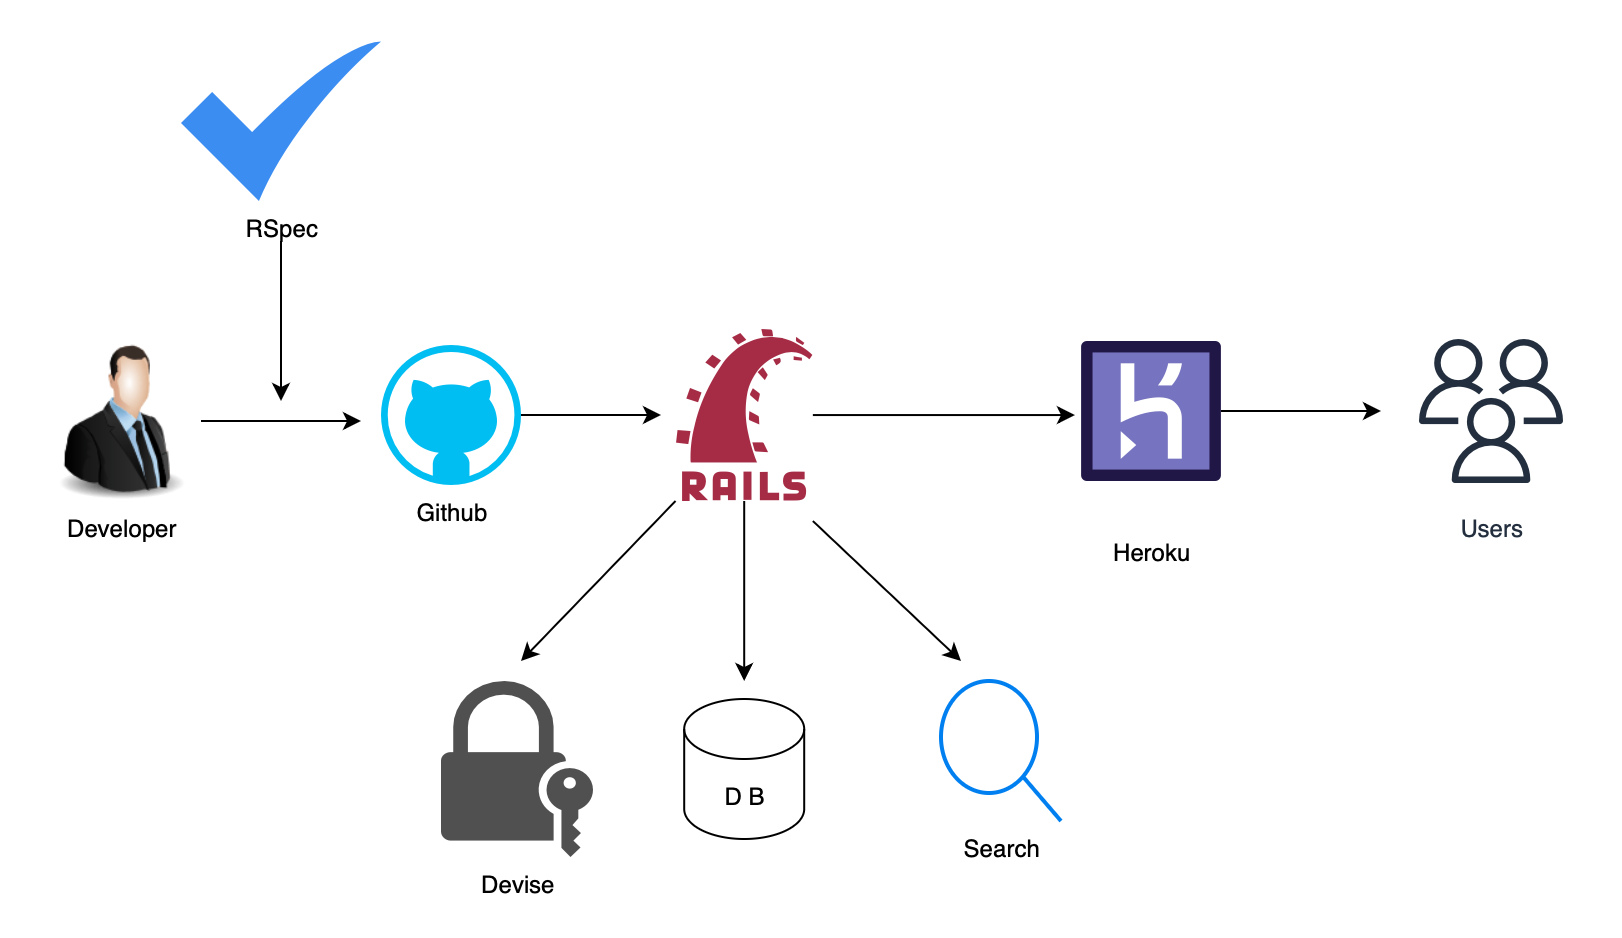
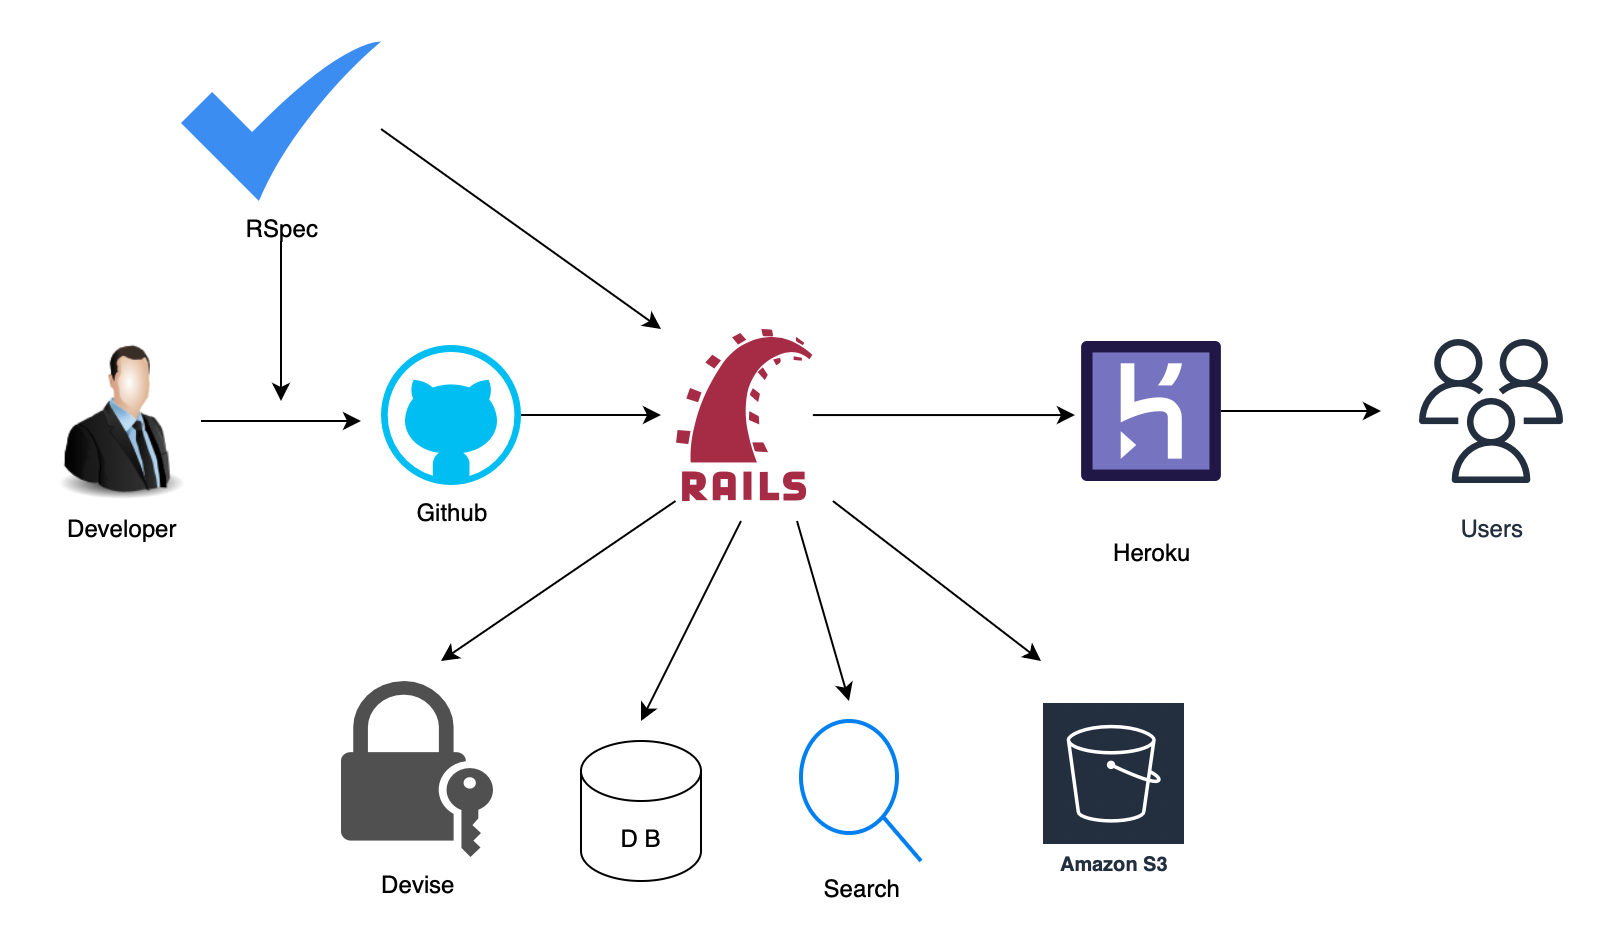
READMEの修正とAWS S3導入

diff --git a/app/assets/stylesheets/dramas.scss b/app/assets/stylesheets/dramas.scss
@@ -105,7 +105,7 @@
   max-width: 700px;
   margin: 40px auto;
   padding: 30px;
-  background: rgb(61, 119, 226);
+  background-color: #eaf2ff;
   border-radius: 12px;
   line-height: 1.8;
 }
@@ -114,8 +114,8 @@
   font-size: 30px;
   margin-bottom: 20px;
   text-align: center;
-  color: white;
-  border-bottom: 2px solid #eee;
+  color: black;
+  border-bottom: 2px solid #f5e33d;
   padding-bottom: 10px;
 }
 
@@ -124,7 +124,7 @@
   margin: 6px 0;
   padding: 8px 12px;
   font-size: 16px;
-  color: white;
+  color: black;
   justify-content: center;
   gap: 15px;
 }
@@ -141,7 +141,7 @@
   line-height: 1.9;
   white-space: normal;
   word-break: break-word;
-  background: #ffffff20;
+  background: #e4666620;
   padding: 10px 15px;
   border-radius: 6px;
 }

diff --git a/db/seeds.rb b/db/seeds.rb
@@ -10,40 +10,45 @@ guest = User.find_or_create_by!(email: "guest@example.com") do |user|
   user.name = "ゲストユーザー"
 end
 
+guest.avatar.purge if guest.avatar.attached?
 guest.avatar.attach(
   io: File.open(Rails.root.join("app/assets/images/sample1.png")),
   filename: "sample1.png"
 )
 
 3.times do |i|
-  guest.dramas.create!(
-    title: "ゲストサンプルドラマ#{i + 1}",
-    genre: "コメディ",
-    mood: "癒し",
-    description: "ゲストユーザーのサンプル投稿です。",
-    is_public: true
-  )
+  guest.dramas.find_or_create_by!(
+    title: "ゲストサンプルドラマ#{i + 1}"
+  ) do |drama|
+    drama.genre = "コメディ"
+    drama.mood = "癒し"
+    drama.description = "ゲストユーザーのサンプル投稿です。"
+    drama.is_public = true
+  end
 end
 
 3.times do |i|
-  user = User.create!(
-    email: "sample#{i + 1}@example.com",
-    password: "password",
-    name: "サンプルユーザー#{i + 1}"
-  )
+  user = User.find_or_create_by!(
+    email: "sample#{i + 1}@example.com"
+  ) do |u|
+    u.password = "password"
+    u.name = "サンプルユーザー#{i + 1}"
+  end
 
+  user.avatar.purge if user.avatar.attached?
   user.avatar.attach(
     io: File.open(Rails.root.join("app/assets/images/sample#{i + 1}.png")),
     filename: "sample#{i + 1}.png"
   )
 
   3.times do |j|
-    user.dramas.create!(
-      title: "サンプル#{i + 1}-ドラマ#{j + 1}",
-      genre: "恋愛",
-      mood: "胸キュン",
-      description: "サンプルユーザー#{i + 1}の投稿です。",
-      is_public: [true, false].sample
-    )
+    user.dramas.find_or_create_by!(
+      title: "サンプル#{i + 1}-ドラマ#{j + 1}"
+    ) do |drama|
+      drama.genre = "恋愛"
+      drama.mood = "胸キュン"
+      drama.description = "サンプルユーザー#{i + 1}の投稿です。"
+      drama.is_public = [true, false].sample
+    end
   end
 end

diff --git a/config/environments/production.rb b/config/environments/production.rb
@@ -38,7 +38,7 @@ Rails.application.configure do
   # config.action_dispatch.x_sendfile_header = 'X-Accel-Redirect' # for NGINX
 
   # Store uploaded files on the local file system (see config/storage.yml for options).
-  config.active_storage.service = :local
+  config.active_storage.service = :amazon
 
   # Mount Action Cable outside main process or domain.
   # config.action_cable.mount_path = nil

diff --git a/README.md b/README.md
@@ -1,7 +1,7 @@
 # ドラマメモ
 
 観たドラマを記録・整理できる、視聴ログアプリです。
-気分タグを使って、「どんな気分でどんなドラマを観たか」を振り返ることができます。
+感情タグを使って、「どんな気分でどんなドラマを観たか」を振り返ることができます。
 プライベートなメモアプリとして使いつつ、必要に応じて公開・シェアも可能です。
 
 # アプリURL(Heroku)
@@ -9,13 +9,21 @@ https://drama-app-82b1924a525a.herokuapp.com
 
 # アプリ概要
 
-ドラマのタイトル、ジャンル、感情タグ、感想を記録
-登録したドラマを検索・絞り込み
-公開・非公開の切り替えでプライベートとシェアを両立
+ドラマの視聴履歴を記録・整理し、感情の変化を振り返ることができるアプリです。
+
+- ドラマのタイトル、ジャンル、感情タグ、感想を記録
+- 登録したドラマを一覧・検索・編集・削除で管理
+- 公開・非公開の切り替えでプライベートとシェアを両立
+- 感情タグ・感想で、視聴傾向を振り返ることが可能
 
 # 開発背景
 
-ドラマ鑑賞が好きで、数多くのドラマを観てきましたが、「以前にどんなドラマを観たか思い出せない」、「次何観ようか迷い探すのに時間がかかる」ということが多々ありました。
+ドラマ鑑賞が好きで、数多くのドラマを観てきましたが、
+
+「以前にどんなドラマを観たか思い出せない」
+「次何観ようか迷い探すのに時間がかかる」
+
+ということが多々ありました。
 
 そこで、自分の視聴履歴をジャンル、感情タグ、感想で整理できるアプリを作ることにしました。
 
@@ -31,8 +39,28 @@ https://drama-app-82b1924a525a.herokuapp.com
 バックエンド　　Ruby ~> 3.3.3 / Rails ~> 6.1
 データベース　　SQLite3(開発) / Postgre(本番)
 認証　　Devise
+画像管理　ActiveStorage + Amazon S3
 デプロイ　　Heroku
 テスト　　RSpec / Capybara
+
+## システム構成について
+このアプリは、Railsを中心としたシンプルな構成としています。
+
+- ユーザー操作は、Railsで処理
+- 認証は、Deviseで管理
+- データは、PostgreSQLに保存
+- 画像ファイルは、ActiveStorage + Amazon S3に保存
+- Herokuで、アプリをデプロイ・運用
+
+# 工夫した点・こだわり
+## 公開・非公開の切り替え
+限定公開にすることで、自分用の記録として気軽に使いつつ、必要なときだけ共有できる設計にしました。
+
+## 画像管理
+Herokuの一時的(エフェメラル)な保存を考慮して、ActiveStorage + Amazon S3 を採用し、画像ファイルとアプリの責務を分離しました。
+
+## 検索機能
+感情タグやジャンルで絞り込めたりすることで、たくさんドラマ登録があっても探しやすいようにしました。
 
 # 画面イメージ
 
@@ -65,25 +93,7 @@ https://drama-app-82b1924a525a.herokuapp.com
 RSpec / Capybaraによるテスト整備
 
 # ER図
-　 users
-id
-name
-email
-introduction
-encrypted_password
-avatar
-
-　　⬇ has_many
-
-   Drama
-id
-user_id
-title
-genre
-mood
-watched_on
-impression
-is_public
+![ER図](app/assets/images/er_diagram.png)
 
 # 今後の課題・改善
 - ドラマの並び替え機能の追加
